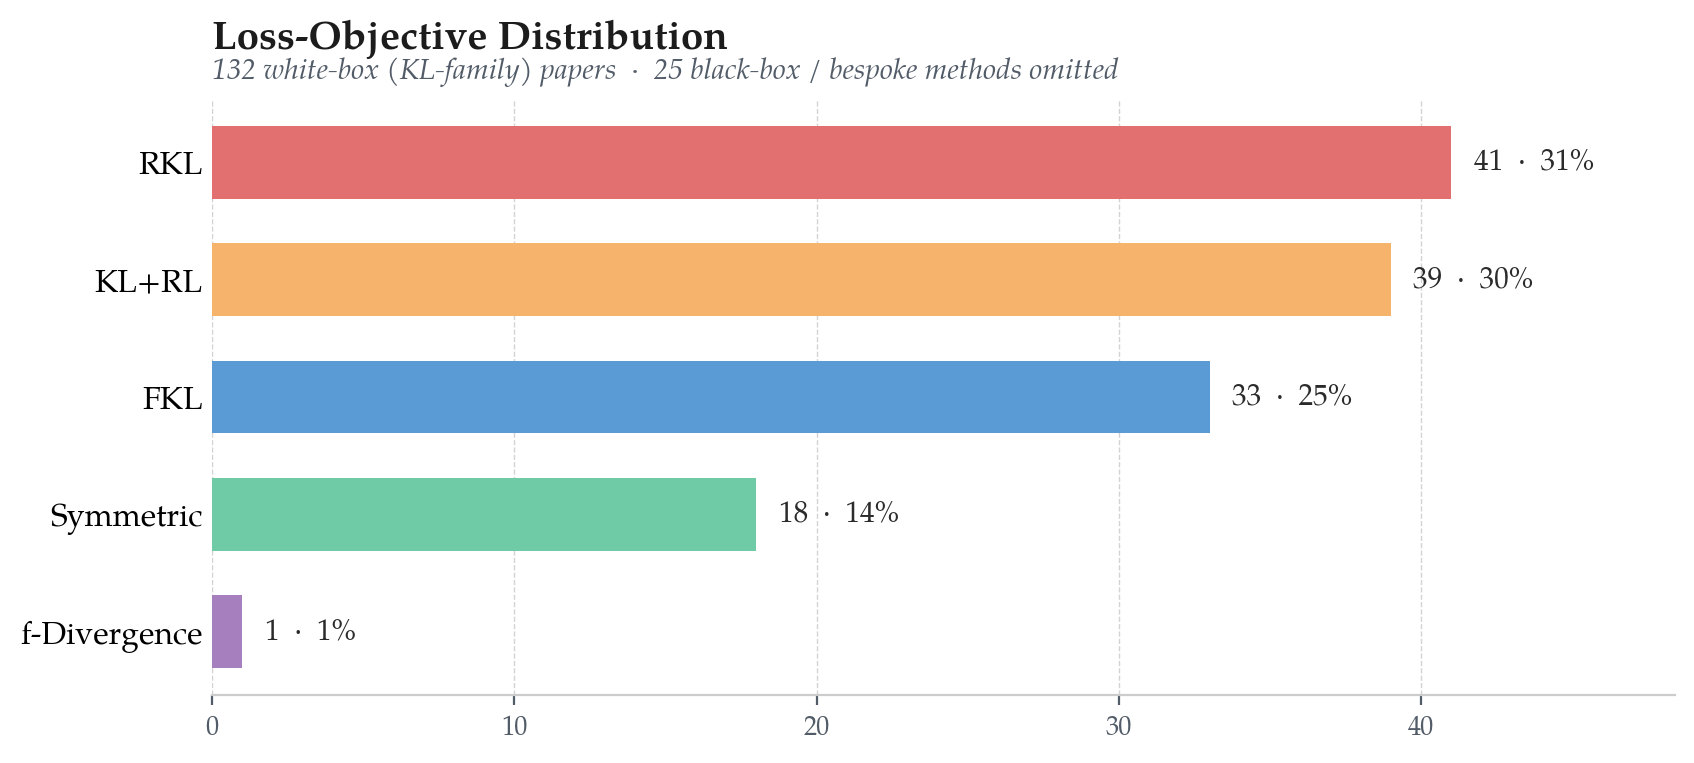
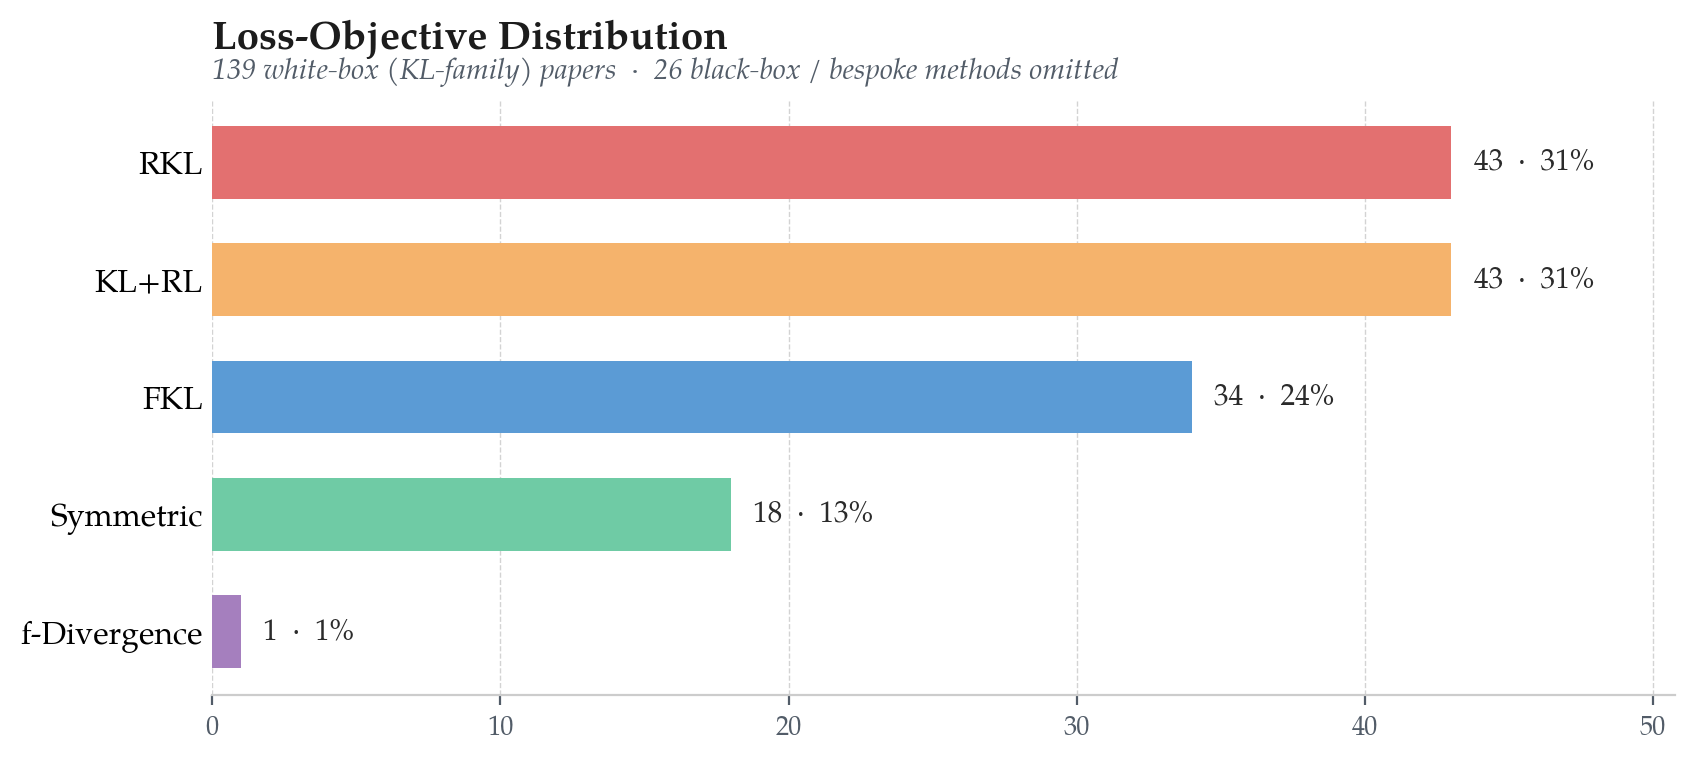
loss-taxonomy: refresh (auto, daily-pipeline Phase 6)

diff --git a/resources/loss-taxonomy.md b/resources/loss-taxonomy.md
@@ -1,28 +1,28 @@
 # Loss Taxonomy of On-Policy Distillation Papers
 
-_Last updated: 2026-06-04. Auto-generated from `data/loss_classification.json`. Re-run `scripts/generate_loss_taxonomy.py` to refresh._
+_Last updated: 2026-06-05. Auto-generated from `data/loss_classification.json`. Re-run `scripts/generate_loss_taxonomy.py` to refresh._
 
-Each of the **157** OPD papers in this collection is assigned exactly one of seven mutually-exclusive loss classes. Classification is performed by an LLM auditor that reads each paper's `loss_formulation` (LaTeX), training-loop description, and key components, then picks the dominant objective per the rules in `data/loss_taxonomy_schema.json`.
+Each of the **165** OPD papers in this collection is assigned exactly one of seven mutually-exclusive loss classes. Classification is performed by an LLM auditor that reads each paper's `loss_formulation` (LaTeX), training-loop description, and key components, then picks the dominant objective per the rules in `data/loss_taxonomy_schema.json`.
 
 ![Loss Distribution](../assets/loss-distribution.png)
 
-> **Chart scope.** The distribution chart shows only the **132 white-box (KL-family) papers** (FKL / RKL / Symmetric / f-Divergence / KL+RL); the 25 black-box / bespoke methods (Preference, Other) are omitted because their loss form is constrained by teacher access (preference / reward / discriminator / NLL-on-samples) rather than chosen as a divergence design. Per-paper assignments below cover all 157 classified papers regardless of class.
+> **Chart scope.** The distribution chart shows only the **139 white-box (KL-family) papers** (FKL / RKL / Symmetric / f-Divergence / KL+RL); the 26 black-box / bespoke methods (Preference, Other) are omitted because their loss form is constrained by teacher access (preference / reward / discriminator / NLL-on-samples) rather than chosen as a divergence design. Per-paper assignments below cover all 165 classified papers regardless of class.
 
 ## Class definitions (compact)
 
-### FKL — Forward KL  ·  **33** papers (21.0%)
+### FKL — Forward KL  ·  **34** papers (20.6%)
 
 `D_KL( \pi_T(\cdot|x) \| \pi_\theta(\cdot|x) )`
 
 _Match rule._ Loss is dominated by forward KL where the teacher distribution is the first argument (mode-covering). Includes classical KD with KL(teacher || student), CE-on-teacher-soft-targets when explicitly equivalent.
 
-### RKL — Reverse KL  ·  **41** papers (26.1%)
+### RKL — Reverse KL  ·  **43** papers (26.1%)
 
 `D_KL( \pi_\theta(\cdot|x) \| \pi_T(\cdot|x) )`
 
 _Match rule._ Loss is dominated by reverse KL where the student distribution is the first argument (mode-seeking). MiniLLM-style policy-gradient interpretations also fall here when the underlying objective is RKL to a teacher.
 
-### Symmetric — Symmetric / Skewed KL / JSD / GKL  ·  **18** papers (11.5%)
+### Symmetric — Symmetric / Skewed KL / JSD / GKL  ·  **18** papers (10.9%)
 
 `D_JSD, D_skew-KL_\alpha, D_GKL, or any symmetrized KL combination`
 
@@ -34,19 +34,19 @@ _Match rule._ Jensen-Shannon divergence; skewed forward/reverse KL with mixture 
 
 _Match rule._ Adaptive KL family that interpolates a parameter between FKL and RKL via alpha-divergence (AKL / TAID-style). Renyi divergence. Chi-squared. Tsallis.
 
-### KL+RL — Hybrid KL distill + RL reward  ·  **39** papers (24.8%)
+### KL+RL — Hybrid KL distill + RL reward  ·  **43** papers (26.1%)
 
 `L = D_KL(teacher, student) + \lambda \cdot R(x,a) (or GRPO/PPO surrogate with teacher KL)`
 
 _Match rule._ Loss explicitly mixes a teacher-KL distillation term with a verifiable reward / advantage / GRPO / PPO surrogate signal. Both terms must be load-bearing (removing either breaks the contribution).
 
-### Preference — Preference / Pairwise / DPO-style  ·  **2** papers (1.3%)
+### Preference — Preference / Pairwise / DPO-style  ·  **2** papers (1.2%)
 
 `DPO-style log-ratio margin between chosen and rejected responses, optionally with a KL-to-teacher hinge`
 
 _Match rule._ Preference-pair loss is the primary distillation signal: DPO, IPO, SimPO, or preference-gap KL where teacher provides the chosen response and student avoids rejected.
 
-### Other — Other / Bespoke (NLL, MSE, Contrastive, special)  ·  **23** papers (14.6%)
+### Other — Other / Bespoke (NLL, MSE, Contrastive, special)  ·  **24** papers (14.5%)
 
 `any objective that does not fit the six classes above`
 
@@ -56,25 +56,26 @@ _Match rule._ MSE on hidden states, contrastive InfoNCE between teacher/student 
 
 | Class | Papers | Share |
 |---|---:|---:|
-| FKL | 33 | 21.0% |
-| RKL | 41 | 26.1% |
-| Symmetric | 18 | 11.5% |
+| FKL | 34 | 20.6% |
+| RKL | 43 | 26.1% |
+| Symmetric | 18 | 10.9% |
 | f-Divergence | 1 | 0.6% |
-| KL+RL | 39 | 24.8% |
-| Preference | 2 | 1.3% |
-| Other | 23 | 14.6% |
-| **Total** | **157** | 100% |
+| KL+RL | 43 | 26.1% |
+| Preference | 2 | 1.2% |
+| Other | 24 | 14.5% |
+| **Total** | **165** | 100% |
 
-_Confidence breakdown: high=103, medium=53, low=1._
+_Confidence breakdown: high=108, medium=56, low=1._
 
 ![Loss Evolution Over Time](../assets/loss-evolution.png)
 
 ## Per-paper assignments
 
-### FKL (33)
+### FKL (34)
 
 | arXiv | Title | Conf | Evidence |
 |---|---|---|---|
+| [2606.05152](https://arxiv.org/abs/2606.05152) | Reinforcement Learning from Rich Feedback with Distributional DAgger | high | Loss is forward cross-entropy H×(π_T, π_θ) on student-sampled states, equivalent to forward KL D_KL(π_T \|\| π_θ) up to constant. |
 | [2606.03603](https://arxiv.org/abs/2606.03603) | World Models Meet Language Models: On the Complementarity of Concrete and Abstract Reas... | medium | L_disc = D_KL(sg[q_t^*] \|\| π_θ) is forward KL with stopped-gradient teacher q_t* as first argument. |
 | [2606.00147](https://arxiv.org/abs/2606.00147) | RAFT: Data Refinement and Adaptive Distillation for Domain Fine-Tuning with Alleviated ... | high | L_KL = (T^2/N) Σ KL(q̃ ∥ p̃) where q̃ is teacher soft target, p̃ is student — forward KL(teacher \|\| student). |
 | [2605.27255](https://arxiv.org/abs/2605.27255) | Pair-In, Pair-Out: Latent Multi-Token Prediction for Efficient LLMs | medium | Token-level distillation using teacher probability on student rollouts corresponds to cross-entropy with teacher soft targets, ... |
@@ -109,10 +110,12 @@ _Confidence breakdown: high=103, medium=53, low=1._
 | [2410.11325](https://arxiv.org/abs/2410.11325) | Speculative Knowledge Distillation: Bridging the Teacher-Student Gap through Interleave... | high | Loss is D(M_T \|\| M_s) = KL with teacher as first argument, i.e., forward KL D_KL(teacher \|\| student). |
 | [2306.13649](https://arxiv.org/abs/2306.13649) | On-Policy Distillation of Language Models: Learning from Self-Generated Mistakes | medium | Loss formulation uses D(p_T \|\| p_S^θ), which is forward KL with teacher as first argument, as the primary divergence. |
 
-### RKL (41)
+### RKL (43)
 
 | arXiv | Title | Conf | Evidence |
 |---|---|---|---|
+| [2606.04703](https://arxiv.org/abs/2606.04703) | Rethinking Continual Experience Internalization for Self-Evolving LLM Agents | medium | L_on(θ) = E_{H~πθ} Σ_t D_KL(q_t ∥ p_t) is reverse KL with student q first, on student-generated trajectories. |
+| [2606.03620](https://arxiv.org/abs/2606.03620) | Physics-Guided Policy Optimization with Self-Distillation | high | Loss is D_KL(π_θ(·\|x,y_{<t}) \|\| stopgrad(π_θ(·\|x,f,y_{<t}))), student in first argument = reverse KL direction. |
 | [2606.02530](https://arxiv.org/abs/2606.02530) | SafeSteer: Localized On-Policy Distillation for Efficient Safety Alignment | high | Loss is Σ p_s(v) log(p_s(v)/p_t(v)), which is D_KL(student \|\| teacher), i.e., reverse KL. |
 | [2606.00564](https://arxiv.org/abs/2606.00564) | Decomposed On-Policy Distillation for Vision-Language Reasoning: Steering Gradients for... | medium | Rollouts sampled from student policy (on-policy), loss computed over τ~p^θ_S(·\|I,x), consistent with reverse KL / MiniLLM-styl... |
 | [2606.00424](https://arxiv.org/abs/2606.00424) | Weak Critics Make Strong Learners: On-Policy Critique Distillation for Scalable Oversight | high | Loss is KL(π_θ(·\|x,y_{<t}) \|\| stopgrad[π_θ(·\|x,f,y_{<t})]), student in first argument, teacher (critique-conditioned) in se... |
@@ -184,10 +187,14 @@ _Confidence breakdown: high=103, medium=53, low=1._
 |---|---|---|---|
 | [2606.01039](https://arxiv.org/abs/2606.01039) | OPD+: Rethinking the Advantage Design for On-Policy Distillation | high | Loss uses general f-divergence framework with w_f(u) = -f(u) + u*f'(u), generalizing beyond KL to arbitrary f-divergences. |
 
-### KL+RL (39)
+### KL+RL (43)
 
 | arXiv | Title | Conf | Evidence |
 |---|---|---|---|
+| [2606.04694](https://arxiv.org/abs/2606.04694) | DuDi: Dual-Signal Distillation with Cross-Lingual Verbalizer | medium | Loss combines token-level KD (teacher logits, forward KL) with SPIN sequence-level objective (preference/RL-like signal). Both ... |
+| [2606.04036](https://arxiv.org/abs/2606.04036) | Self-Distilled Policy Gradient | high | L_SDPG combines L_out (REINFORCE with verifier rewards) and L+_OPD (reverse-KL self-distillation from privileged teacher), both... |
+| [2606.03532](https://arxiv.org/abs/2606.03532) | When Should the Teacher Move? Temporal Coupling and Stability in Self On-Policy Distill... | high | L_t = -E[r(x)] + lambda * KL(pi_theta \|\| pi_phi) combines RL reward with KL distillation to self-teacher. |
+| [2606.03089](https://arxiv.org/abs/2606.03089) | Constitutional On-Policy Safe Distillation | high | Token-level reverse-KL reward r(i,t)=log P_S - log P_T combined with clipped PPO/GRPO surrogate objective. Both teacher KL and ... |
 | [2605.30833](https://arxiv.org/abs/2605.30833) | Your Teacher Can't Help You Here: Combating Supervision Fidelity Decay in On-Policy Dis... | high | Loss combines A_t (reverse-KL advantage: 1 + log π_θ - log π_T) with γ·r_conf (teacher confidence reward), both load-bearing. |
 | [2605.15155](https://arxiv.org/abs/2605.15155) | Self-Distilled Agentic Reinforcement Learning | high | L = L_GRPO + λ_SDAR · L_SDAR where SDAR is gated (log π_T - log π_θ) distillation and GRPO is RL reward objective. |
 | [2605.13255](https://arxiv.org/abs/2605.13255) | Respecting Self-Uncertainty in On-Policy Self-Distillation for Efficient LLM Reasoning | medium | Loss combines RL policy gradient (A_i reward advantage) with teacher-student log-prob difference w_{i,t} as token-level KL-like... |
@@ -232,13 +239,14 @@ _Confidence breakdown: high=103, medium=53, low=1._
 
 | arXiv | Title | Conf | Evidence |
 |---|---|---|---|
-| [2605.05040](https://arxiv.org/abs/2605.05040) | Preference-Based Self-Distillation: Beyond KL Matching via Reward Regularization | high | DPO-style log-ratio margin: -log σ(β · [log π_θ/π_teach(y+) − log π_θ/π_teach(y-)]). y+ from privileged-context self-teacher (p... |
-| [2509.25100](https://arxiv.org/abs/2509.25100) | ORPO-Distill: Mixed-Policy Preference Optimization for Cross-Architecture LLM Distillation | high | ORPO loss L_ORPO = L_SFT + λ·L_OR, where L_OR = -log σ(log[odds_qθ(y_P)/odds_qθ(y_N)]). Teacher CoT y_P sampled K=8 times offli... |
+| [2605.05040](https://arxiv.org/abs/2605.05040) | Preference-Based Self-Distillation: Beyond KL Matching via Reward Regularization | high | Loss is DPO-style Bradley-Terry log σ(β[log-ratio margin]) between teacher-generated positive and student-generated negative sa... |
+| [2509.25100](https://arxiv.org/abs/2509.25100) | ORPO-Distill: Mixed-Policy Preference Optimization for Cross-Architecture LLM Distillation | high | L_OR uses log-sigmoid of log-odds ratio between chosen (teacher) and rejected (student) responses — ORPO preference loss. |
 
-### Other (23)
+### Other (24)
 
 | arXiv | Title | Conf | Evidence |
 |---|---|---|---|
+| [2606.05122](https://arxiv.org/abs/2606.05122) | Self-Evaluation Is Already There: Eliciting Latent Judge Calibration in Base LLMs with ... | medium | Masked cross-entropy on self-eval score tokens (NLL on teacher-judge labels) plus GRPO RL with composite reward, no explicit KL... |
 | [2606.02684](https://arxiv.org/abs/2606.02684) | Filter, Then Reweight: Rethinking Optimization Granularity in On-Policy Distillation | medium | PPO-clipped surrogate loss with teacher-derived weighted advantages; no explicit KL divergence term between teacher and student... |
 | [2606.02372](https://arxiv.org/abs/2606.02372) | COMAP: Co-Evolving World Models and Agent Policies for LLM Agents | medium | Loss is NLL on environment next-state prediction plus EMA self-distillation and BCE/NLL policy terms, no explicit KL divergence... |
 | [2606.01476](https://arxiv.org/abs/2606.01476) | OmniOPD: Logit-Free On-Policy Distillation via Speculative Verification | medium | Loss is weighted NLL on teacher-scored chunks (semantic similarity scores as weights), not a KL divergence between teacher/stud... |
